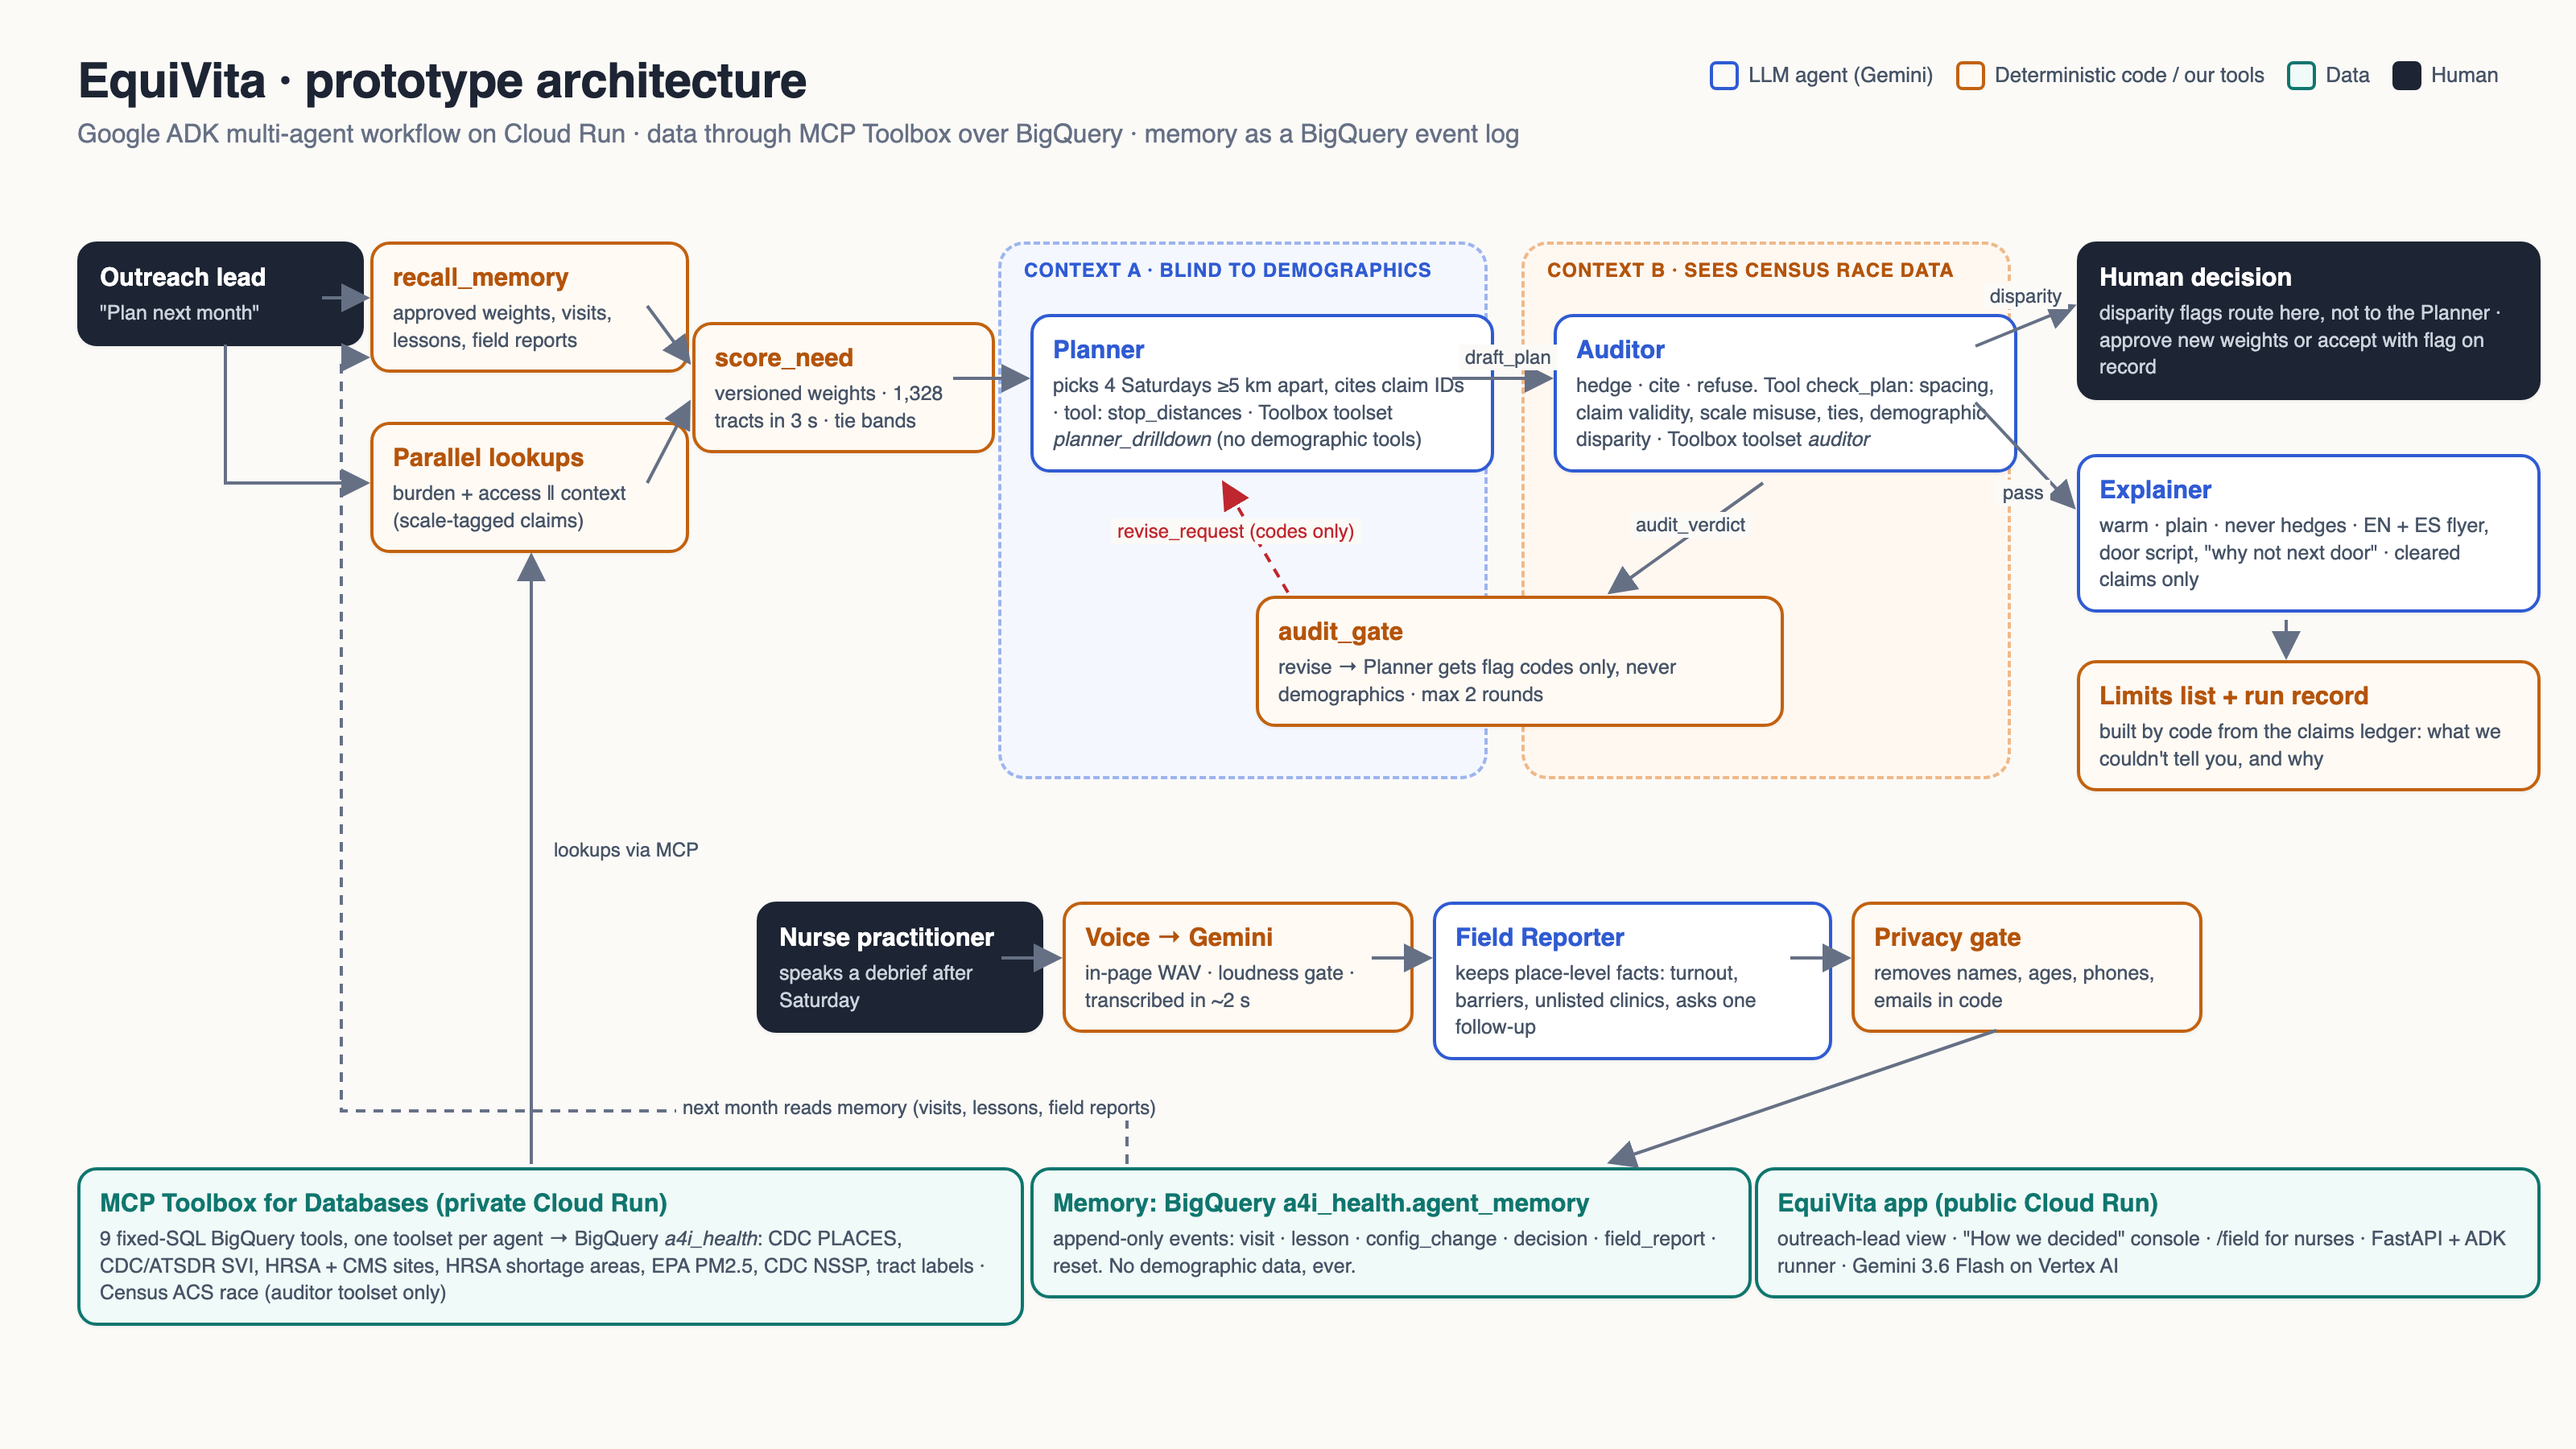
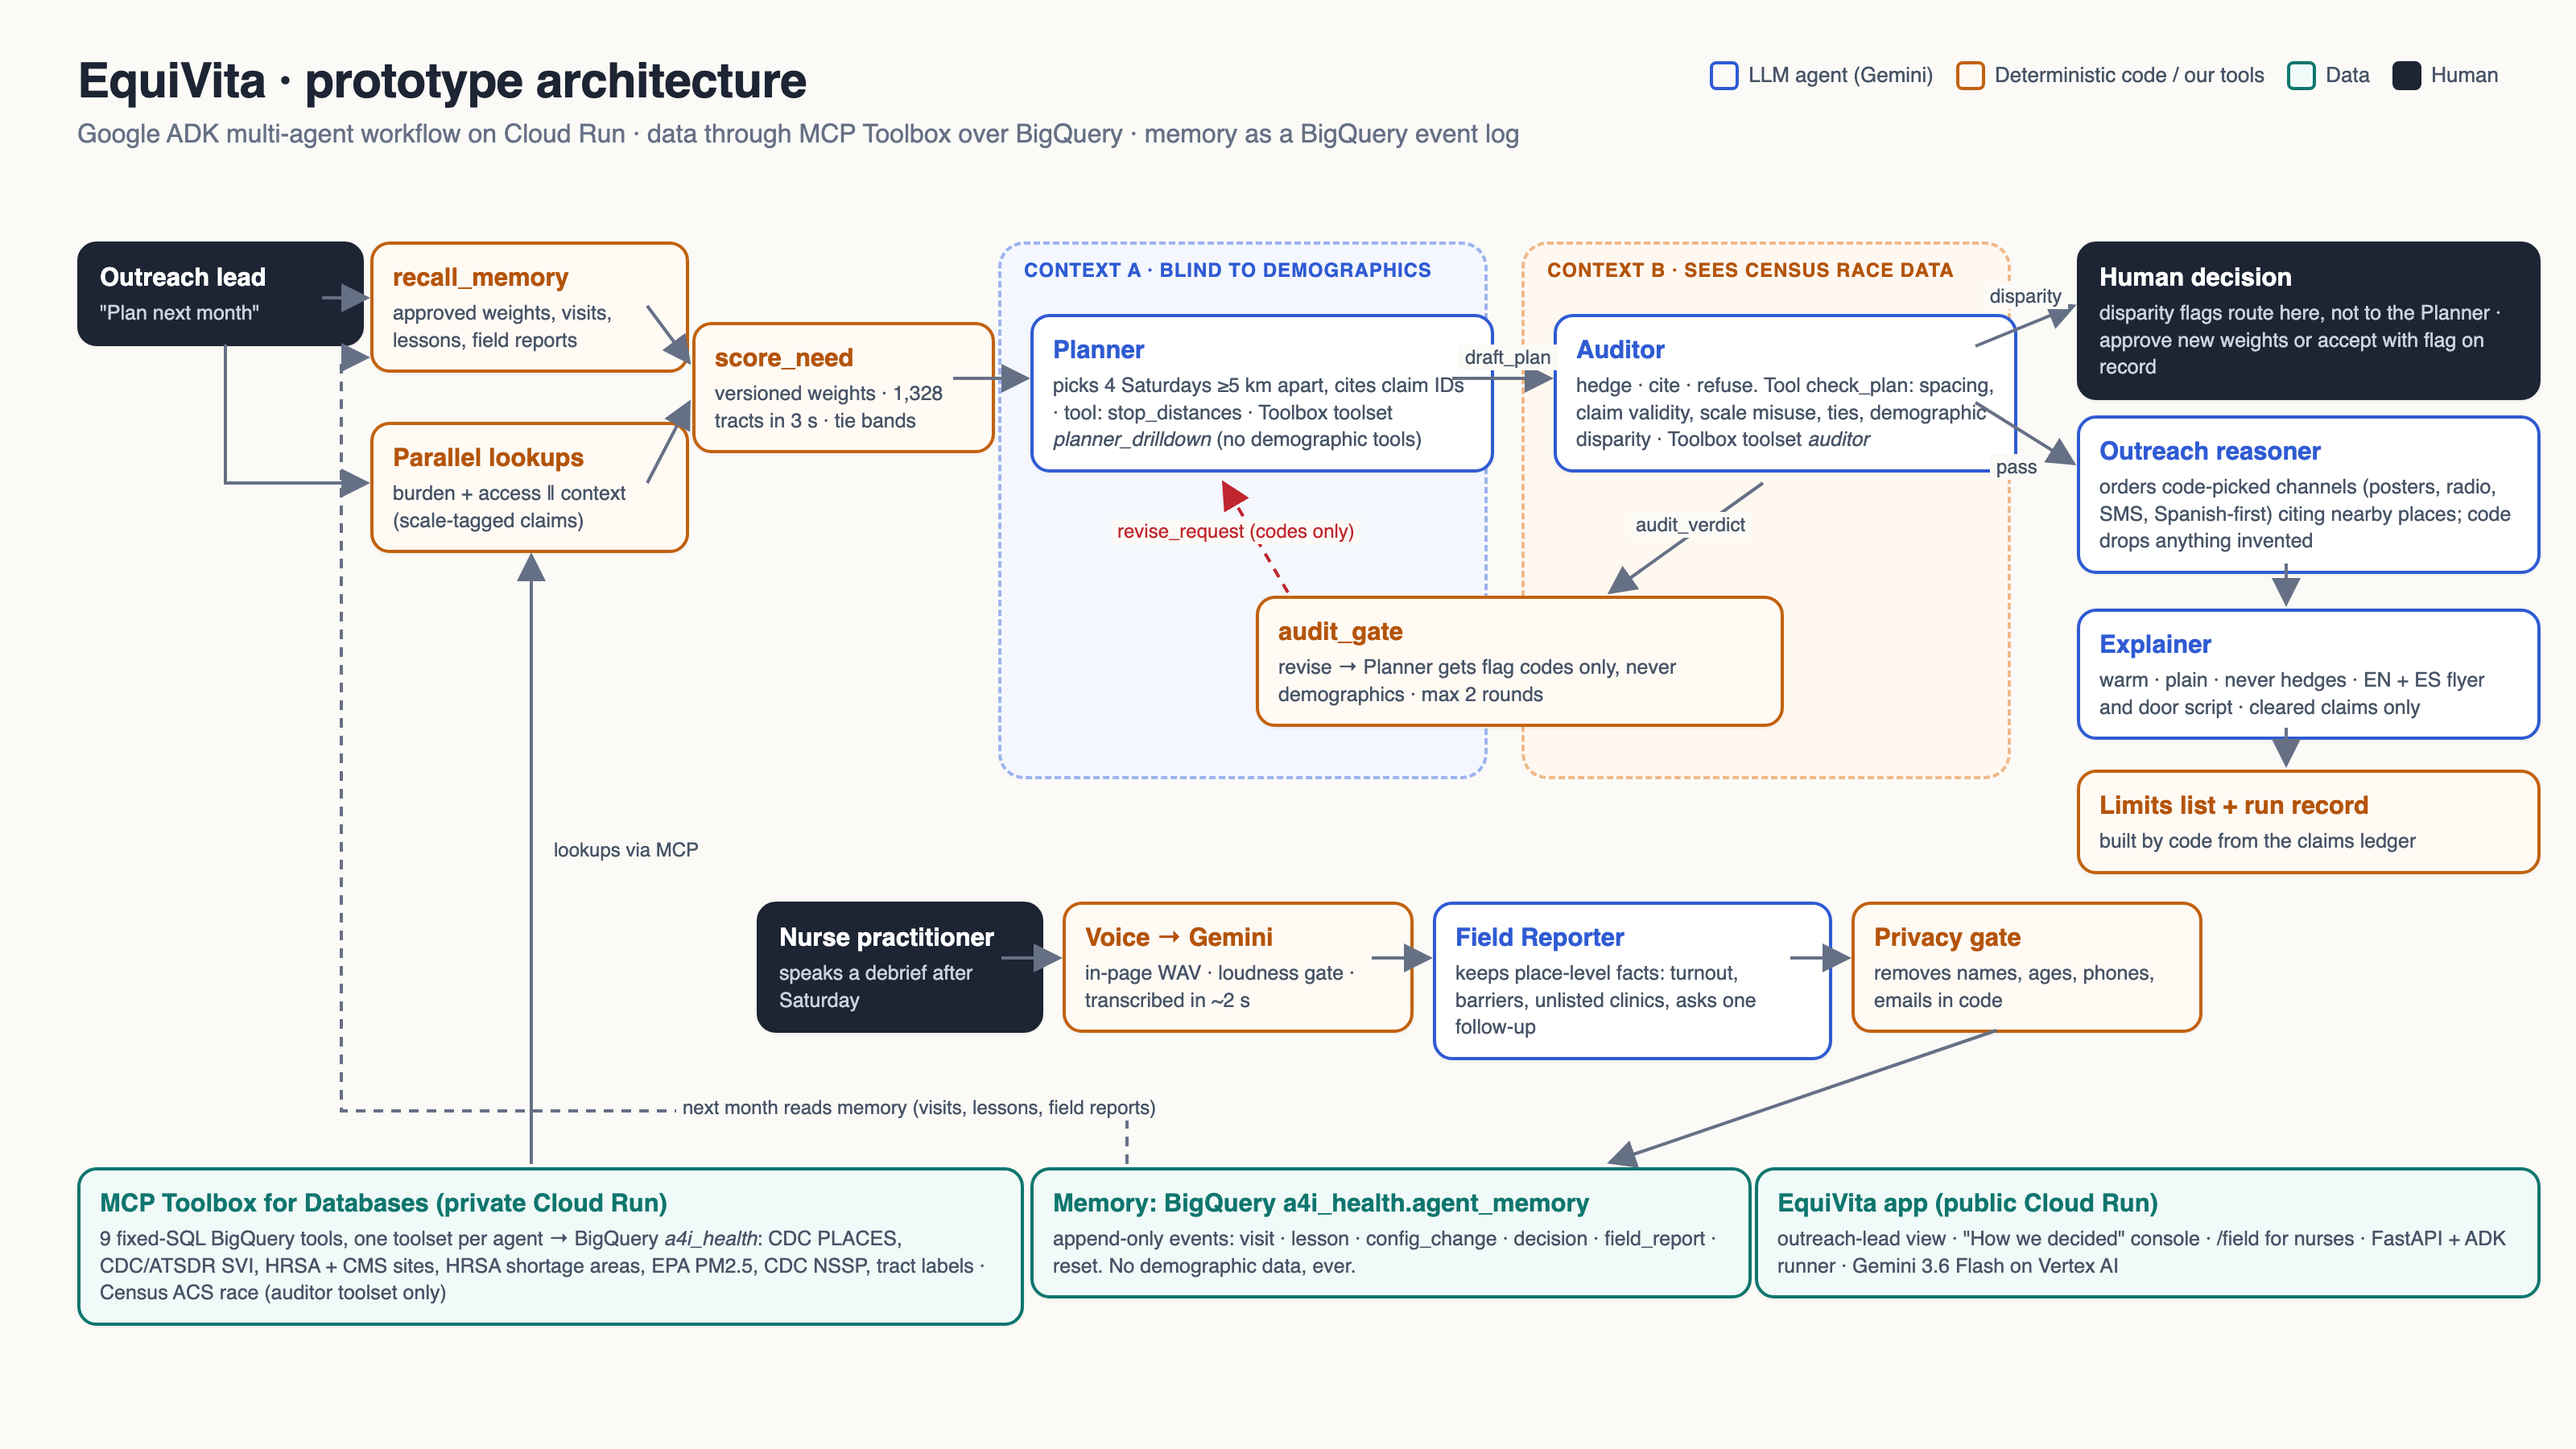
Architecture diagram: add Outreach reasoner

Changed region(s): [[0.7812, 0.28, 1.0, 0.5911]]

diff --git a/docs/architecture.html b/docs/architecture.html
@@ -32,8 +32,9 @@ svg{position:absolute;left:0;top:0}
 <div class="b llm" style="left:965px;top:195px;width:260px"><b>Auditor</b><small>hedge · cite · refuse. Tool check_plan: spacing, claim validity, scale misuse, ties, demographic disparity · Toolbox toolset <i>auditor</i></small></div>
 <div class="b code" style="left:780px;top:370px;width:300px"><b>audit_gate</b><small>revise → Planner gets flag codes only, never demographics · max 2 rounds</small></div>
 <div class="b hum" style="left:1290px;top:150px;width:260px"><b style="color:#fff">Human decision</b><small>disparity flags route here, not to the Planner · approve new weights or accept with flag on record</small></div>
-<div class="b llm" style="left:1290px;top:282px;width:260px"><b>Explainer</b><small>warm · plain · never hedges · EN + ES flyer, door script, "why not next door" · cleared claims only</small></div>
-<div class="b code" style="left:1290px;top:410px;width:260px"><b>Limits list + run record</b><small>built by code from the claims ledger: what we couldn't tell you, and why</small></div>
+<div class="b llm" style="left:1290px;top:258px;width:260px"><b>Outreach reasoner</b><small>orders code-picked channels (posters, radio, SMS, Spanish-first) citing nearby places; code drops anything invented</small></div>
+<div class="b llm" style="left:1290px;top:378px;width:260px"><b>Explainer</b><small>warm · plain · never hedges · EN + ES flyer and door script · cleared claims only</small></div>
+<div class="b code" style="left:1290px;top:478px;width:260px"><b>Limits list + run record</b><small>built by code from the claims ledger</small></div>
 
 <!-- Row 2: field loop -->
 <div class="b hum" style="left:470px;top:560px;width:150px"><b style="color:#fff">Nurse practitioner</b><small>speaks a debrief after Saturday</small></div>
@@ -55,8 +56,8 @@ svg{position:absolute;left:0;top:0}
 <path d="M902,235 L963,235"/>
 <path d="M1095,300 L1000,368"/>
 <path d="M1227,215 L1288,190"/>
-<path d="M1227,250 L1288,315"/>
-<path d="M1420,385 L1420,408"/>
+<path d="M1227,250 L1288,288"/>
+<path d="M1420,350 L1420,375"/><path d="M1420,452 L1420,475"/>
 <path d="M622,595 L658,595"/><path d="M852,595 L888,595"/><path d="M1112,595 L1148,595"/>
 <path d="M1240,640 L1000,722"/>
 <path d="M700,723 L700,690 L212,690 L212,222 L228,222" stroke-dasharray="6 5"/>
@@ -68,7 +69,7 @@ svg{position:absolute;left:0;top:0}
 <div class="tag" style="left:1012px;top:318px">audit_verdict</div>
 <div class="tag" style="left:690px;top:322px;color:#c0262d">revise_request (codes only)</div>
 <div class="tag" style="left:1232px;top:176px">disparity</div>
-<div class="tag" style="left:1240px;top:298px">pass</div>
+<div class="tag" style="left:1236px;top:282px">pass</div>
 <div class="tag" style="left:420px;top:680px">next month reads memory (visits, lessons, field reports)</div>
 <div class="tag" style="left:340px;top:520px">lookups via MCP</div>
 </body></html>
